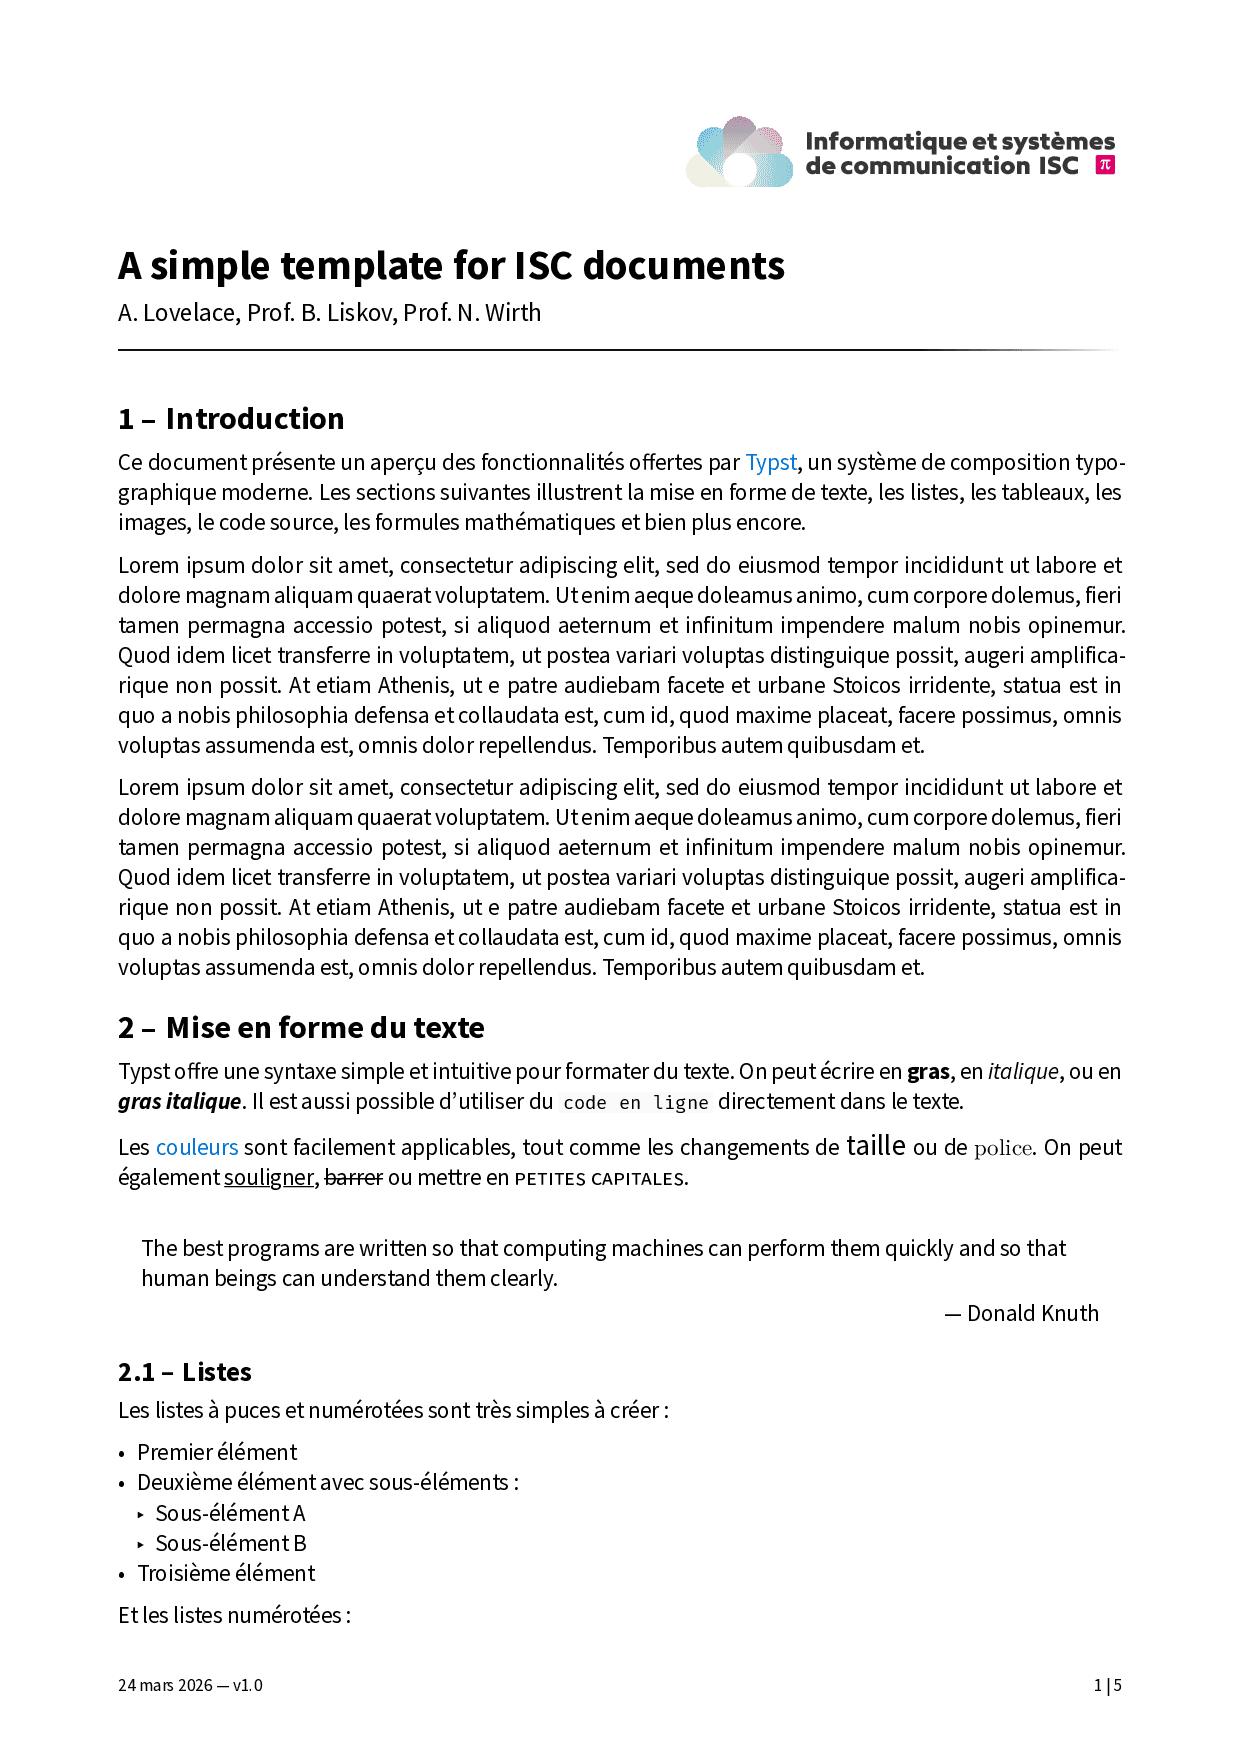
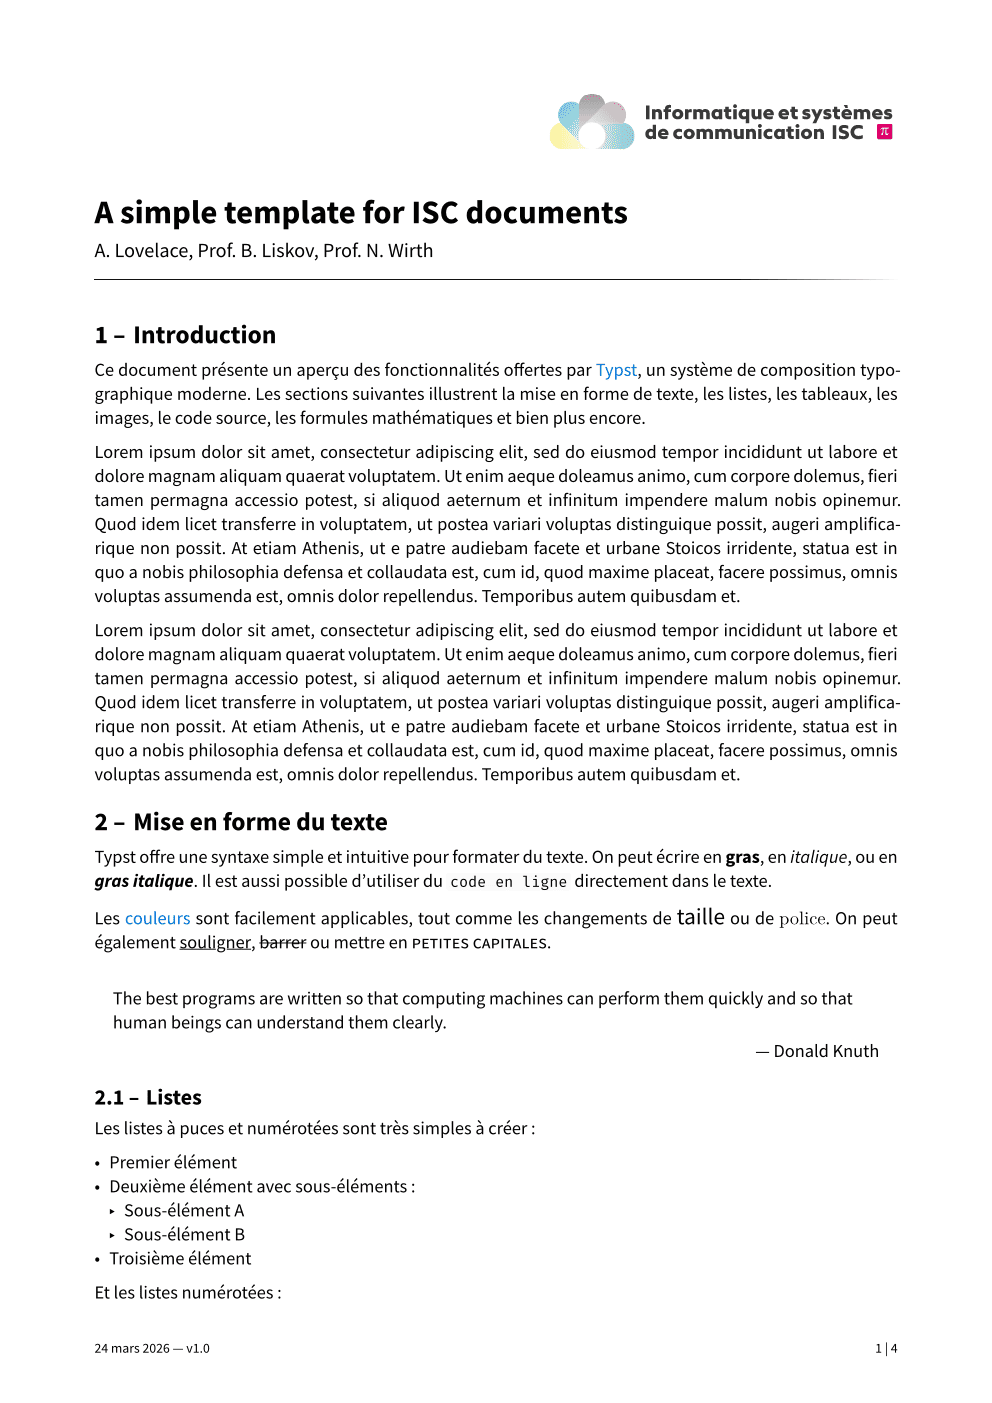
Fixed minimum compiler to 0.14.0 for flexibility Deterministic re-renders Made thumbnails byte-deterministic (and smaller) Made PDF byte-deterministic

diff --git a/CONTRIBUTING.md b/CONTRIBUTING.md
@@ -8,10 +8,11 @@ Since v0.2.0, the build process is based on [`just`](https://github.com/casey/ju
 
 To build, test and deploy new releases I'm using [just](https://github.com/casey/just), which is really nice!
 
-`ImageMagick` (with `pngquant`) is used for creating the thumbnails:
+`pngquant` and `zopflipng` are used for creating the thumbnails (thumbnails are
+rendered directly by `typst`, so ImageMagick/Ghostscript are no longer needed):
 
 ```bash
-sudo apt install imagemagick pngquant
+sudo apt install pngquant zopfli
 ```
 
 #### Installing a recent `just`
@@ -177,8 +178,13 @@ git push origin main --force
 
 ### Thumbnails & image quantization
 
-Template thumbnails are regenerated from `examples/*.pdf` with `just generate-thumbs` (this is also pulled in automatically by `just pack`). It rasterises the first page of each example and runs `pngquant` to keep the template size on the Universe small. To re-quantize images by hand:
+Template thumbnails are regenerated with `just generate-thumbs` (this is also pulled in automatically by `just pack`). It renders the first page of each `src/*.typ` example **directly with `typst`** at 120 ppi (`--pages 1 --format png --ppi 120`), then shrinks each PNG with `pngquant` and a lossless `zopflipng` pass to keep the template size on the Universe small.
+
+Rendering with `typst` instead of going through `examples/*.pdf` → Ghostscript → ImageMagick makes the output **byte-for-byte reproducible**: typst's PNG export embeds no timestamp, so regenerating with the same binaries and installed fonts yields identical files (no spurious git diffs). Cross-machine equivalence still requires the same fonts installed.
+
+To re-quantize / re-compress images by hand:
 
 ```bash
 pngquant --quality 50-80 *.png --ext .png --force
+zopflipng -y in.png out.png   # lossless second pass
 ```

diff --git a/CLAUDE.md b/CLAUDE.md
@@ -8,7 +8,13 @@ Official [Typst](https://typst.app/) templates for the ISC bachelor degree progr
 
 ## Build commands
 
-Requires: `typst` (≥ 0.14.2), `just`, `ImageMagick` + `pngquant` (used by `generate-thumbs`, which `pack` runs).
+Requires: `typst` (≥ 0.14.0), `just`, `pngquant` + `zopflipng` (used by `generate-thumbs`, which `pack` runs).
+
+> `generate-thumbs` renders each `src/*.typ` page 1 **directly with typst** at 120 ppi
+> (`--pages 1 --format png --ppi 120`), then `pngquant` + a lossless `zopflipng` pass.
+> Ghostscript/ImageMagick are no longer in the chain, so the raster is **byte-for-byte
+> reproducible** given the same binaries + installed fonts (typst PNG export embeds no
+> timestamp). Cross-machine equivalence still needs the same fonts installed.
 
 The Justfile is split into four recipe groups (`just --list`): **dev** (work against
 your live source via symlinks), **pre-release** (build + check the local @preview
